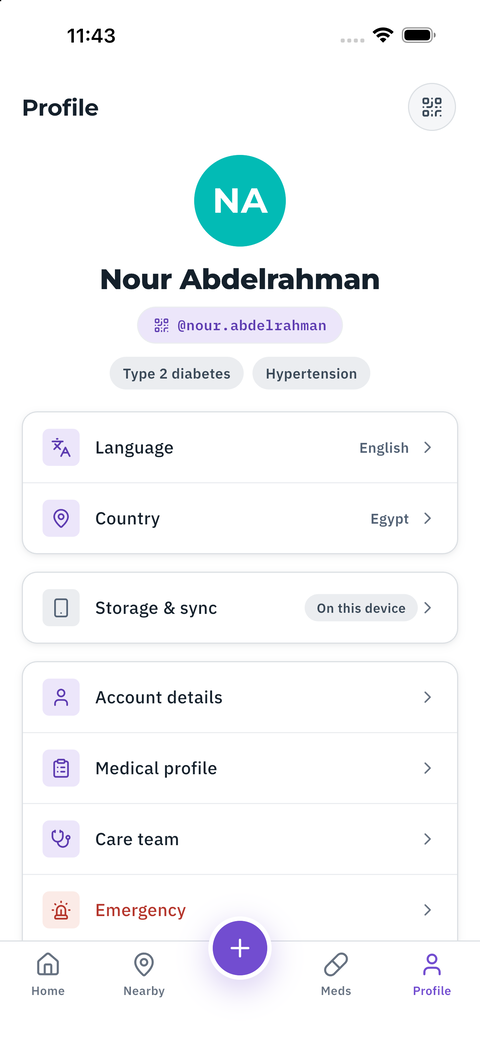
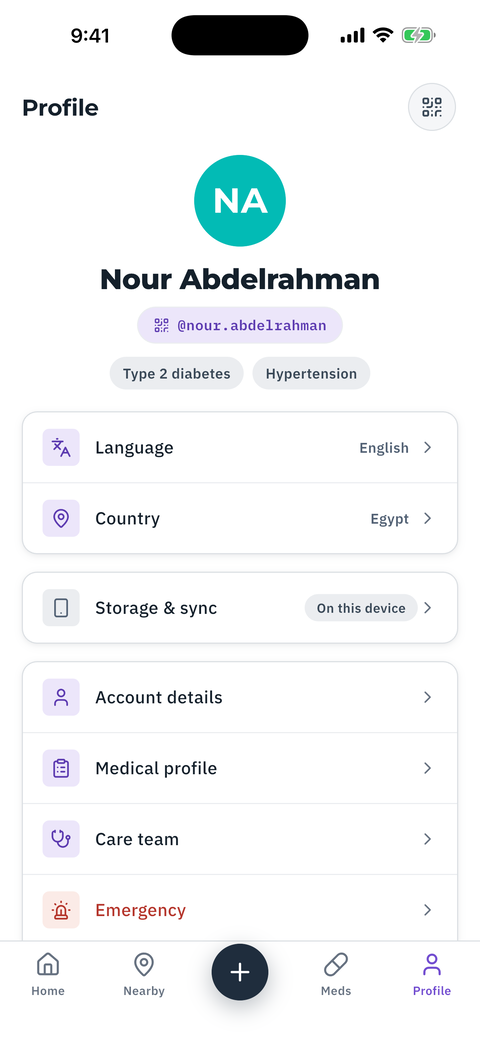
[Docs] Store screenshots from the design; docs screenshots recaptured (#149)
* [Docs] Recapture the app screenshots from current main

Regenerated with the docs entrypoint as docs/screenshots.md describes
(iPhone 17 Pro Max and iPad Pro 13-inch simulators, English and Arabic),
then downscaled into app/screenshots for the docs. They now show what
has landed since the last capture: the new welcome screen, the per-date
recent reports, the Pain trend plotting only check-ins that reported
pain, the ⋮ and Select controls on medications, and the persona's Arabic
copy in her own gender. The status bar is pinned to 9:41.

Claude-Session: https://claude.ai/code/session_01L44asrHdTUiM9mvWEQNzss

* [Docs] Store screenshots come from the design, not simulator captures

Review: marketing screenshots are extracted from the claude.ai/design
"Store Screenshots v5" file. Its Download all export (72 PNGs: App Store
iPhone 6.3in and iPad 13in, Google Play phone, 7in and 10in tablets and
feature graphic, featured artwork and store previews, in English and
Arabic) now lives in marketing/store-screenshots/ with the design's own
folder names, and a README says how to re-export it. The alpha channel
the browser adds is stripped, as App Store Connect rejects it.

The simulator recaptures of marketing/app-store-screenshots/captures are
dropped from this change; only the docs copies stay updated.

Claude-Session: https://claude.ai/code/session_01L44asrHdTUiM9mvWEQNzss

* [Docs] Store screenshots README: the design export is already opaque
[…]

diff --git a/marketing/store-screenshots/README.md b/marketing/store-screenshots/README.md
@@ -1,0 +1,54 @@
+# Store screenshots
+
+The App Store and Google Play images, exported from the claude.ai/design
+**Balsm App** project's
+[Store Screenshots v5](https://claude.ai/design/p/1173afbf-d8eb-42a5-84c3-79d8add96d4e?file=Store+Screenshots+v5.html).
+**The design is the source of truth**: change the copy, layout or the app
+screens inside the frames there, then re-export. Don't edit these PNGs by hand.
+
+## Layout
+
+The folders are the design's own export, unchanged, so a new export drops in
+place:
+
+    App Store/<en-US|ar-SA>/iPhone 6.3in 1206x2622/0N-<screen>.png
+    App Store/<en-US|ar-SA>/iPad 13in 2064x2752/0N-<screen>.png
+    App Store/<locale>/Featured artwork/…       editorial artwork sizes
+    App Store/<locale>/Store previews/…          how the set reads in search and on the product page (reference, not uploaded)
+    Google Play/<en-US|ar>/Phone 1080x1920/…
+    Google Play/<locale>/Tablet 7in 1440x2560/…
+    Google Play/<locale>/Tablet 10in 1800x3200/…
+    Google Play/<locale>/Feature graphic 1024x500/…
+
+Six screens per set: home, nearby, meds, trends, profile, brand.
+
+## Re-export
+
+1. Open the design file above and press **Download all (ZIP)**. It renders
+   every frame at its exact store size and saves `Balsm Store Assets.zip`
+   wherever your browser keeps downloads.
+2. Unzip it over this folder:
+
+   ```sh
+   unzip -o "<downloads>/Balsm Store Assets.zip" -d /tmp/store
+   cp -R "/tmp/store/Balsm Store Assets/." marketing/store-screenshots/
+   ```
+
+3. Check nothing has an alpha channel — App Store Connect rejects screenshots
+   that do. The export writes opaque RGB, so this should print only `srgb 3.0`:
+
+   ```sh
+   find marketing/store-screenshots -name '*.png' -print0 \
+     | xargs -0 magick identify -format '%[channels]\n' | sort | uniq -c
+   ```
+
+   If a frame ever comes out `srgba`, flatten it with
+   `magick "$f" -background white -alpha remove -alpha off "PNG24:$f"`.
+
+Two exports of an unchanged design differ by a few hundred anti-aliased edge
+pixels, so only commit a re-export when the design actually changed.
+
+The app screens inside the frames are the design project's own captures
+(`screenshots/crop-*.png`, `tabP-*.png` there). To show newer UI, recapture
+the app (`docs/screenshots.md`) and replace those files in the design project
+before exporting.
